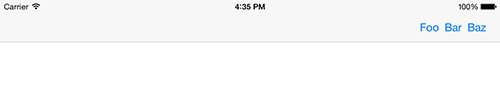
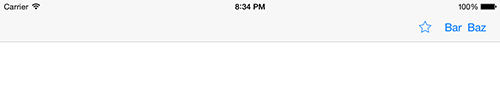
New image for more button.
- Update assets.

diff --git a/MBBarMenu/MBBarMenuViewController.m b/MBBarMenu/MBBarMenuViewController.m
@@ -99,9 +99,10 @@
 
     NSInteger alertButtonCount = self.items.count - barButtonCount;
     if (alertButtonCount > 1) {
-        UIBarButtonItem *item = [[UIBarButtonItem alloc] initWithBarButtonSystemItem:UIBarButtonSystemItemOrganize
-                                                                              target:self
-                                                                              action:@selector(pressedMoreButton)];
+        UIBarButtonItem *item = [[UIBarButtonItem alloc] initWithImage:[UIImage imageNamed:@"more"]
+                                                                 style:UIBarButtonItemStylePlain
+                                                                target:self
+                                                                action:@selector(pressedMoreButton)];
         [barButtons addObject:item];
     }
 
